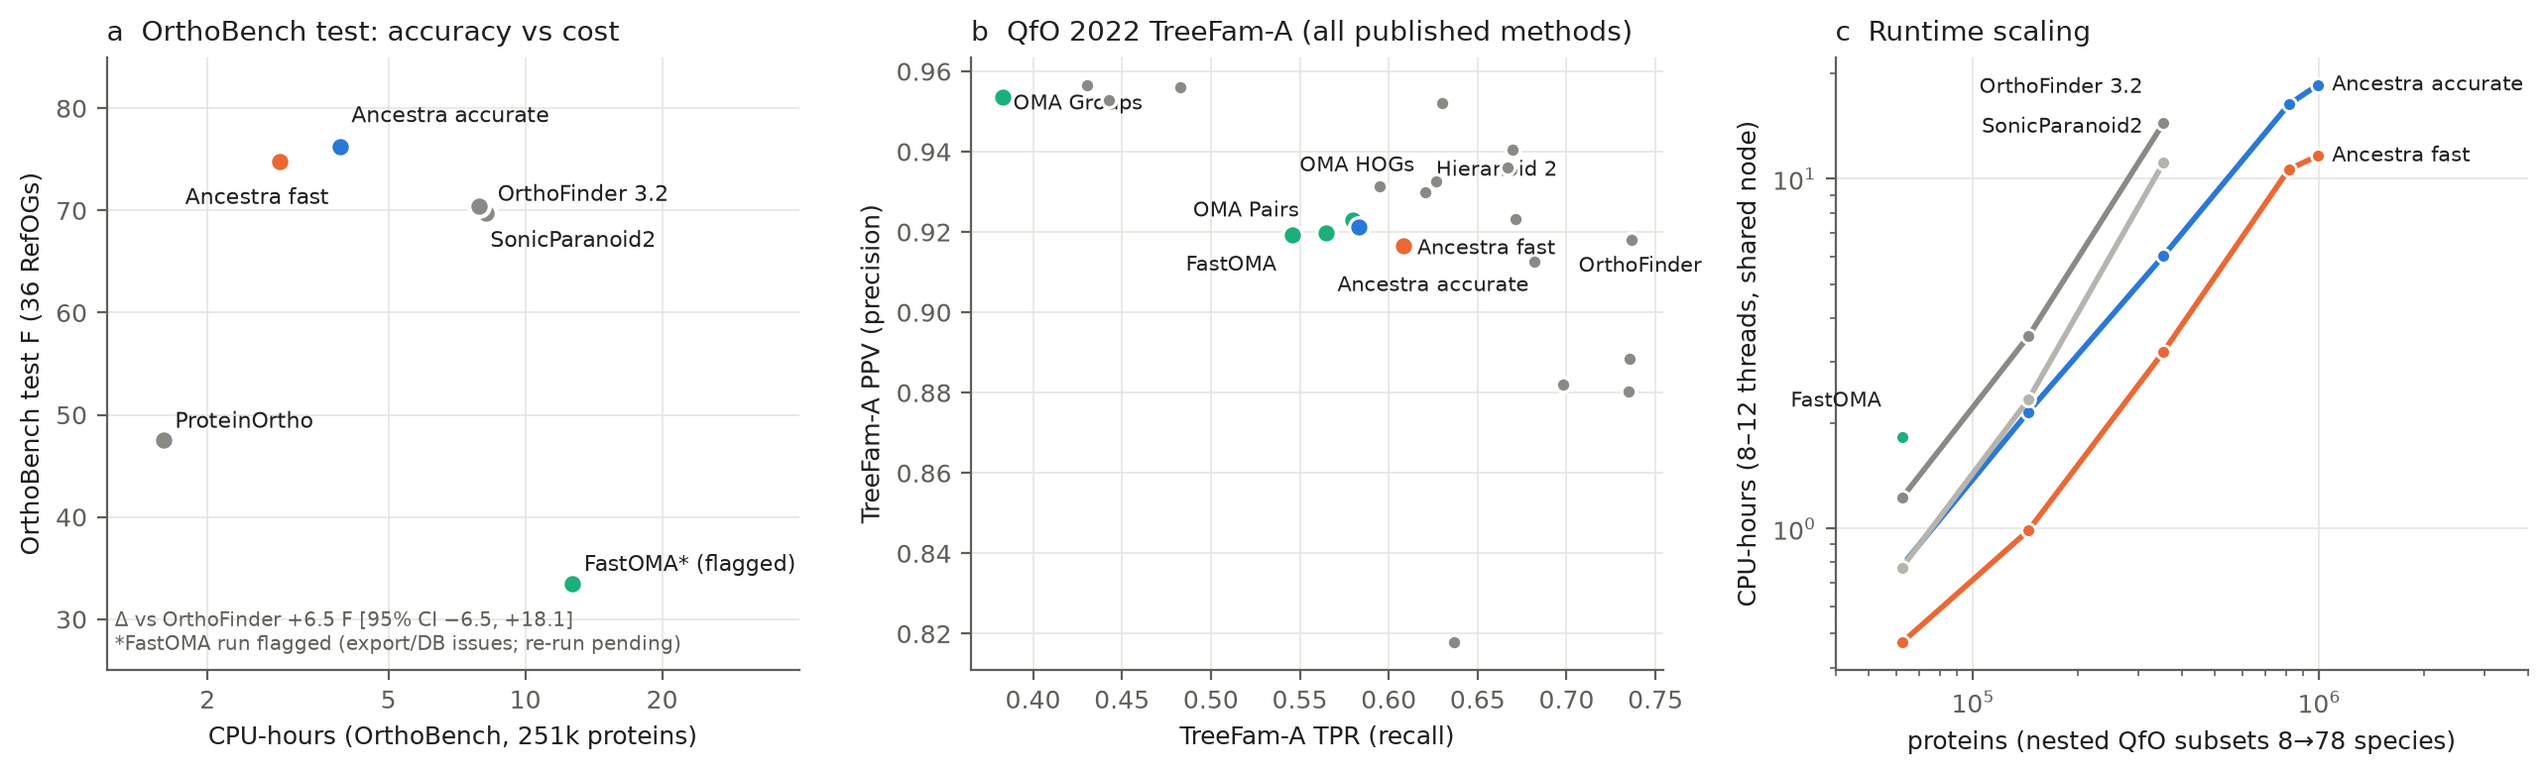
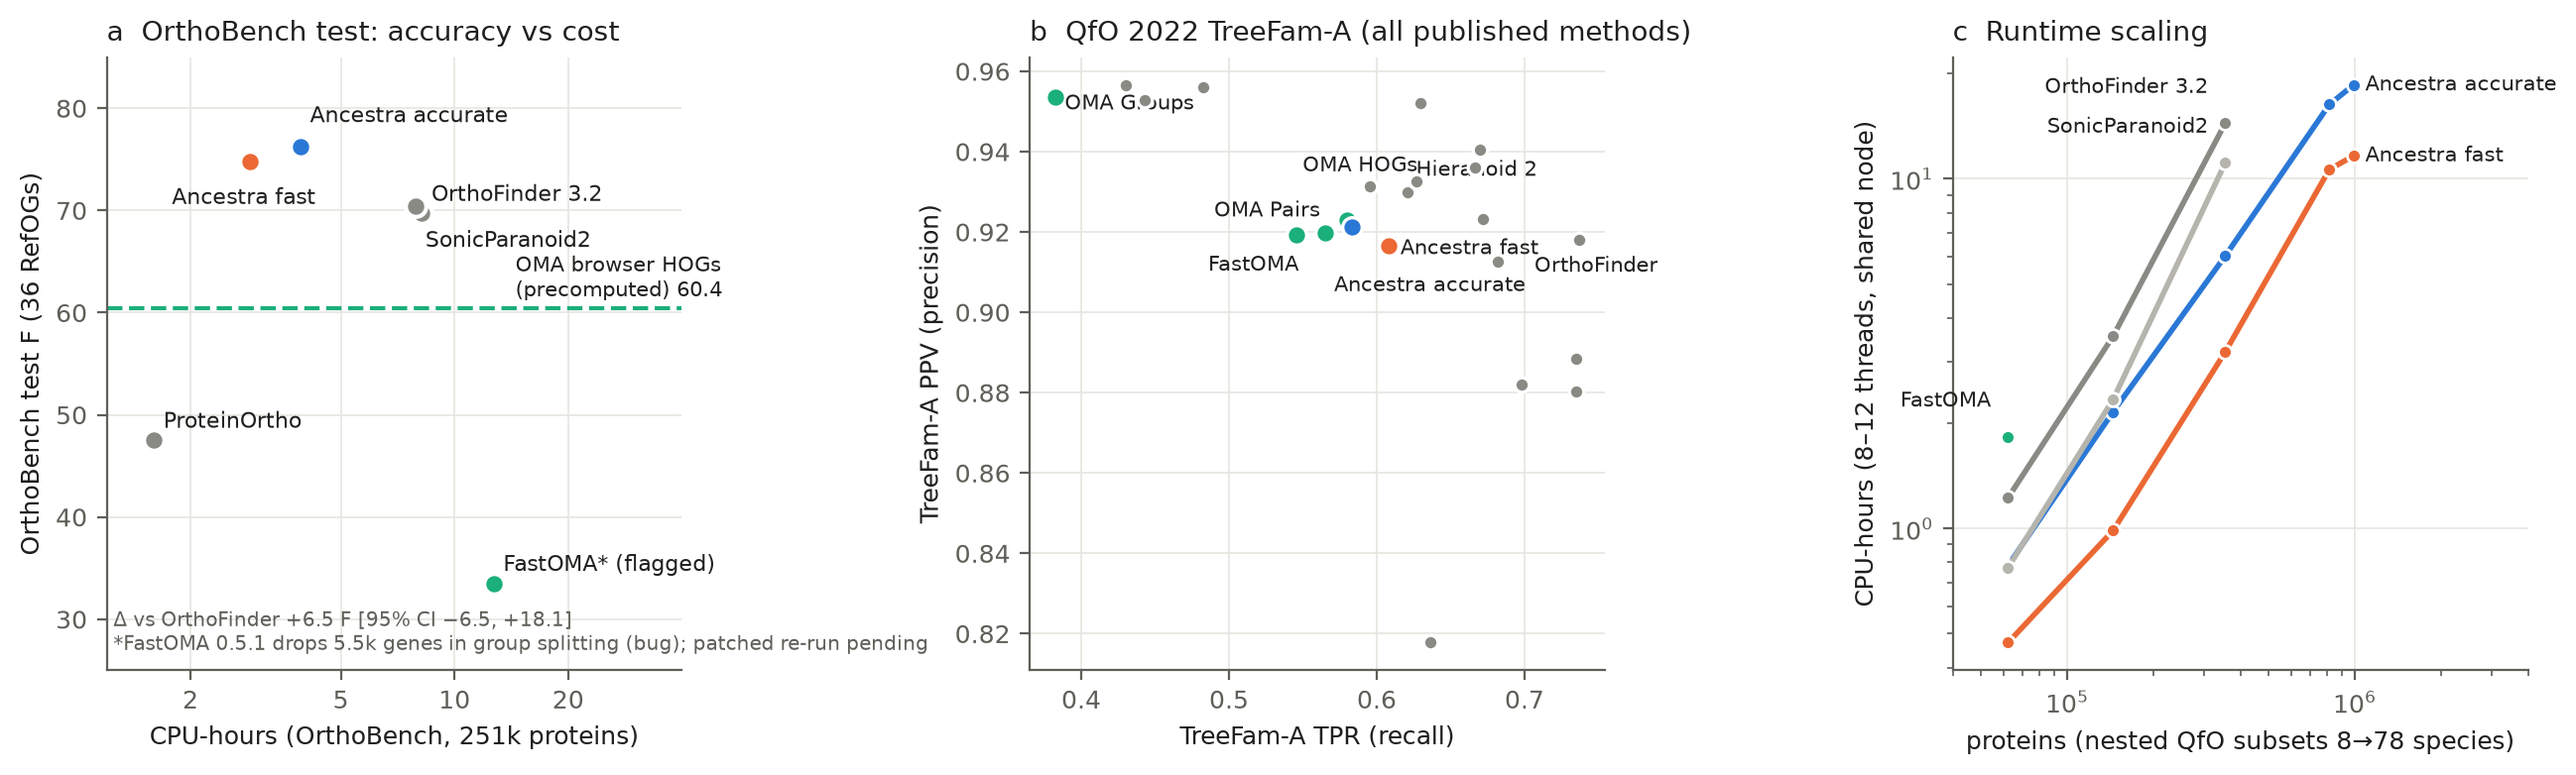
PAUSE final: OMA browser HOGs comparator (+15.7 F [1.8,29.2]), FastOMA bug diagnosis, figures/summary/disclosures updated; no processes running

diff --git a/scripts/make_summary_figures.py b/scripts/make_summary_figures.py
@@ -68,6 +68,10 @@ def fig_bench():
         off = {"Ancestra accurate": (1.06, 3.0), "Ancestra fast": (0.62, -3.6), "SonicParanoid2": (1.06, -3.4)}
         mx, dy = off.get(name, (1.06, 1.8))
         ax.text(cpu * mx, f + dy, name, fontsize=8, color=INK, va="center")
+    # OMA browser HOGs (All.May2026; precomputed, no CPU cost to plot) as a reference line.
+    # Source: bench_repo/results/orthobench_competitors/oma_browser/score.json
+    ax.axhline(60.4, color=OMA, lw=1.5, ls="--", zorder=1)
+    ax.text(14.5, 61.6, "OMA browser HOGs\n(precomputed) 60.4", fontsize=7.5, color=INK)
     ax.set_xscale("log"); ax.set_xlim(1.2, 40); ax.set_ylim(25, 85)
     from matplotlib.ticker import FixedLocator, NullLocator, FixedFormatter
     ax.xaxis.set_major_locator(FixedLocator([2, 5, 10, 20])); ax.xaxis.set_major_formatter(FixedFormatter(["2", "5", "10", "20"]))
@@ -75,7 +79,7 @@ def fig_bench():
     ax.set_xlabel("CPU-hours (OrthoBench, 251k proteins)"); ax.set_ylabel("OrthoBench test F (36 RefOGs)")
     ax.set_title("a  OrthoBench test: accuracy vs cost", loc="left", fontsize=10, color=INK)
     ax.grid(color=GRID, lw=0.6); ax.set_axisbelow(True)
-    ax.text(1.25, 27, "Δ vs OrthoFinder +6.5 F [95% CI −6.5, +18.1]\n*FastOMA run flagged (export/DB issues; re-run pending)",
+    ax.text(1.25, 27, "Δ vs OrthoFinder +6.5 F [95% CI −6.5, +18.1]\n*FastOMA 0.5.1 drops 5.5k genes in group splitting (bug); patched re-run pending",
             fontsize=7.2, color=MUTED)
     # (b) QfO TreeFam-A Pareto. Source: results/qfo_final/pareto_data.tsv
     ax = axs[1]

diff --git a/RESEARCH_TREE.md b/RESEARCH_TREE.md
@@ -92,6 +92,7 @@ Decision note M0: benchmark lives in its own repo (bench_repo/) as the prompt re
 - [!] 8.0 **QfO peek 2** (frozen candidates, code b504c94; results/qfo_peek2/): cand2_fast SwissTree .731/.923, TreeFam-A .608/.916, GO .471 (n 182k), EC .896 (n 197k); cand2_accurate SwissTree .721/.926, TreeFam-A .583/.921. TreeFam-A test subset: fast .605/.914, accurate .580/.913 (dev overestimated by ~0.01 TPR and, for accurate, 0.027 PPV). On QfO fast ≥ accurate at 8× less merge cost; on OrthoBench dev accurate > fast. VGNC PPV .982 and EC .90 remain weak (vertebrate over-merging). Recall still below OrthoFinder (.825/.737); fast is above Hieranoid2/SonicParanoid2/FastOMA on SwissTree TPR but at lower PPV.
 - [x] 8.1 **FREEZE v1** (T+15h25, git tag freeze-v1, results/freeze.json): both presets frozen; default stays `accurate` (chosen before peek 2; not switched on test evidence).
 - [~] 8. Full pipeline benchmark vs competitors (accuracy + runtime + scaling)
+  - [x] 8.5b OMA browser HOGs (All.May2026) on OrthoBench test: F 60.4 (P 88.9, R 45.8); **Ancestra +15.7 [+1.8, +29.2]**. FastOMA 0.5.1 bug: group splitting drops 5,497 genes (RefOG005/006/008/013 lost); patched run ~90% at pause (bench_repo OMA_RESUME_NOTE.md). Scaling: FastOMA 8 species 1.83 CPU-h vs Ancestra 0.47–0.78.
   - [~] 8.5 **User request (T+17h40): include ≥1 OMA resource in every comparison.** OrthoBench: re-run FastOMA correctly + OMA browser HOGs mapped to OrthoBench IDs (agent). QfO: FastOMA/OMA HOGs/Pairs/Groups rows in every final table and plot. Scaling: FastOMA added.
   - [!] 8.2 **Final QfO** (results/qfo_final/, 24 logged final evaluations): accurate SwissTree .721/.926, TreeFam-A .583/.921, VGNC PPV .982, EC .899, FAS .652, STD-Euk fraction incorrect .113 (n 11,612); fast .731/.923, .608/.916, .982, .896, .649, .127 (13,132). Comparators: OrthoFinder .825/.917, .737/.918, .997, .931, .716, .118; FastOMA .699/.953, .546/.919, .996, .928, .669, .102; OMA HOGs .696/.924, .580/.923, .979, .829, .412, .086; OMA Pairs .677/.929, .565/.920, .980, .952, .810, .085. → not on the TreeFam-A/SwissTree Pareto front. **Pre-registered primary endpoints (independent verification, docs/VERIFICATION.md §4–5):** TreeFam-A test TPR (accurate) vs OrthoFinder −0.160 [−0.210, −0.106] **fails**; vs FastOMA +0.043 [−0.005, +0.093] **non-inferior**; vs OMA Pairs +0.018 [−0.028, +0.069] **non-inferior**; vs OMA HOGs +0.002 [−0.058, +0.067] inconclusive. SwissTree vs OrthoFinder −0.103 [−0.177, −0.029] fails. **G-STD2-Eukaryota RF .257 (n 3,379) = worst of the main comparators** (OF .249, FastOMA .239, OMA HOGs .237). EC below OrthoFinder on score and n. STD-Euk: worse than OMA/Hieranoid/InParanoid. VGNC PPV .982 ≈ OMA (.979–.980), below OF/FastOMA (.996–.997).
     - Ablations (fast, TreeFam-A TPR, CI ±0.006): no gene order −0.012 [family-bootstrap −0.028, +0.001] (**gene-order effect on QfO not supported**); family rescue −0.004; ASTRAL-Pro tree +0.028 [−0.009, +0.077] but EC −0.125 (prokaryotes rooted vs eukaryotes → Bacteria+Archaea merged); FastME +0.022 / EC −0.134; 5 NNIs +0.003 (PPV −0.012); **random tree −0.243, VGNC PPV −0.73** (negative control).

diff --git a/docs/ONE_PAGE_SUMMARY.md b/docs/ONE_PAGE_SUMMARY.md
@@ -10,7 +10,7 @@ The output is hierarchical orthologous groups (HOGs) in OrthoXML, plus pairs. Th
 ![method](figures/fig1_method.png)
 
 ## In a nutshell
-- **OrthoBench test** (36 held-out RefOGs, one-time evaluation): Ancestra `accurate` scores **F 76.2** against OrthoFinder 3.2 at 69.7 and SonicParanoid2 at 70.4, using **3.9 vs 8.2 CPU-h**. The pre-registered non-inferiority rule is **not met**: the 95% CI is too wide, Δ vs OrthoFinder +6.5 [−6.5, +18.1].
+- **OrthoBench test** (36 held-out RefOGs, one-time evaluation): Ancestra `accurate` scores **F 76.2** against OrthoFinder 3.2 at 69.7 and SonicParanoid2 at 70.4, using **3.9 vs 8.2 CPU-h**. The pre-registered non-inferiority rule is **not met** against OrthoFinder: the 95% CI is too wide, Δ +6.5 [−6.5, +18.1]. Against the **OMA browser HOGs** (All.May2026, precomputed; OMA contains all 12 species) Ancestra is **+15.7 [+1.8, +29.2]** F (OMA 60.4: P 88.9, R 45.8). FastOMA 0.5.1 on OrthoBench is invalidated by a gene-dropping bug in its group splitting (diagnosed; a patched re-run is pending).
 - **QfO 2022** (78 species, ~1M proteins; the full official suite run locally):
   - Ancestra is **non-inferior to FastOMA and OMA Pairs** on TreeFam-A test recall.
   - It is **clearly below OrthoFinder** on recall: TreeFam-A −0.16, SwissTree −0.10.
@@ -28,4 +28,4 @@ The output is hierarchical orthologous groups (HOGs) in OrthoXML, plus pairs. Th
 
 **Honesty notes.** 18 protocol deviations are listed in `docs/DISCLOSURES.md`. Among them, the TreeFam-A dev split was created after the first QfO peek, and OrthoBench dev was reused heavily, so dev numbers are optimistic. Every key number was recomputed by an independent agent (`docs/VERIFICATION.md`).
 
-**Not finished at pause:** the corrected FastOMA and OMA-browser OrthoBench comparators (requested by the user), FastOMA scaling runs, and the 125–1000-proteome scalability demo (data ready, runs not started). Next steps are in `RESUME.md`.
+**Not finished at pause:** the patched-FastOMA OrthoBench run (~90% done), FastOMA scaling runs, and the 125–1000-proteome scalability demo (data ready, runs not started). Next steps are in `RESUME.md`.

diff --git a/docs/DISCLOSURES.md b/docs/DISCLOSURES.md
@@ -19,3 +19,4 @@ Collected at M3 (T+14h15) by an independent retrospective agent; maintained by t
 16. **Commit-ID bookkeeping:** freeze.json was written one commit before the freeze tag; the code (ancestra/*.py) is byte-identical across 6c593a8, 71117bf (tag freeze-v1) and f7bcddc (cited in test_log).
 17. **The QfO ablation CIs reported by the official test (±0.006) ignore within-family clustering of pairs.** Family-level bootstrap (1,108 families) gives: no gene order −0.012 [−0.028, +0.001]; ASTRAL-Pro +0.028 [−0.009, +0.077]; FastME +0.022 [−0.001, +0.045]. So no gene-order effect on QfO recall is supported.
 18. **Wording corrections:** "STD comparable" had no CI; on STD-Euk, Ancestra is worse than OMA, Hieranoid and InParanoid. VGNC PPV (.982) is not lower than OMA's (.979–.980). The GO/EC "±" in qfo_final/summary.md is 1.96×SEM, not SEM. test_log commit IDs differ from the run manifests (the code is identical).
+19. **OMA comparators were added after the freeze at user request** (post-freeze, compared with frozen outputs only). The OMA-browser-HOG OrthoBench conversion was first scored with a wrong labelling rule (test 45.5) and then corrected (test 60.4). Both are recorded in bench_repo/results/orthobench_competitors/oma_browser/. OMA contains all OrthoBench species (leakage favours OMA). FastOMA 0.5.1 drops ~5.5k genes when splitting groups (bug), so its OrthoBench score is invalid until the patched run completes.
